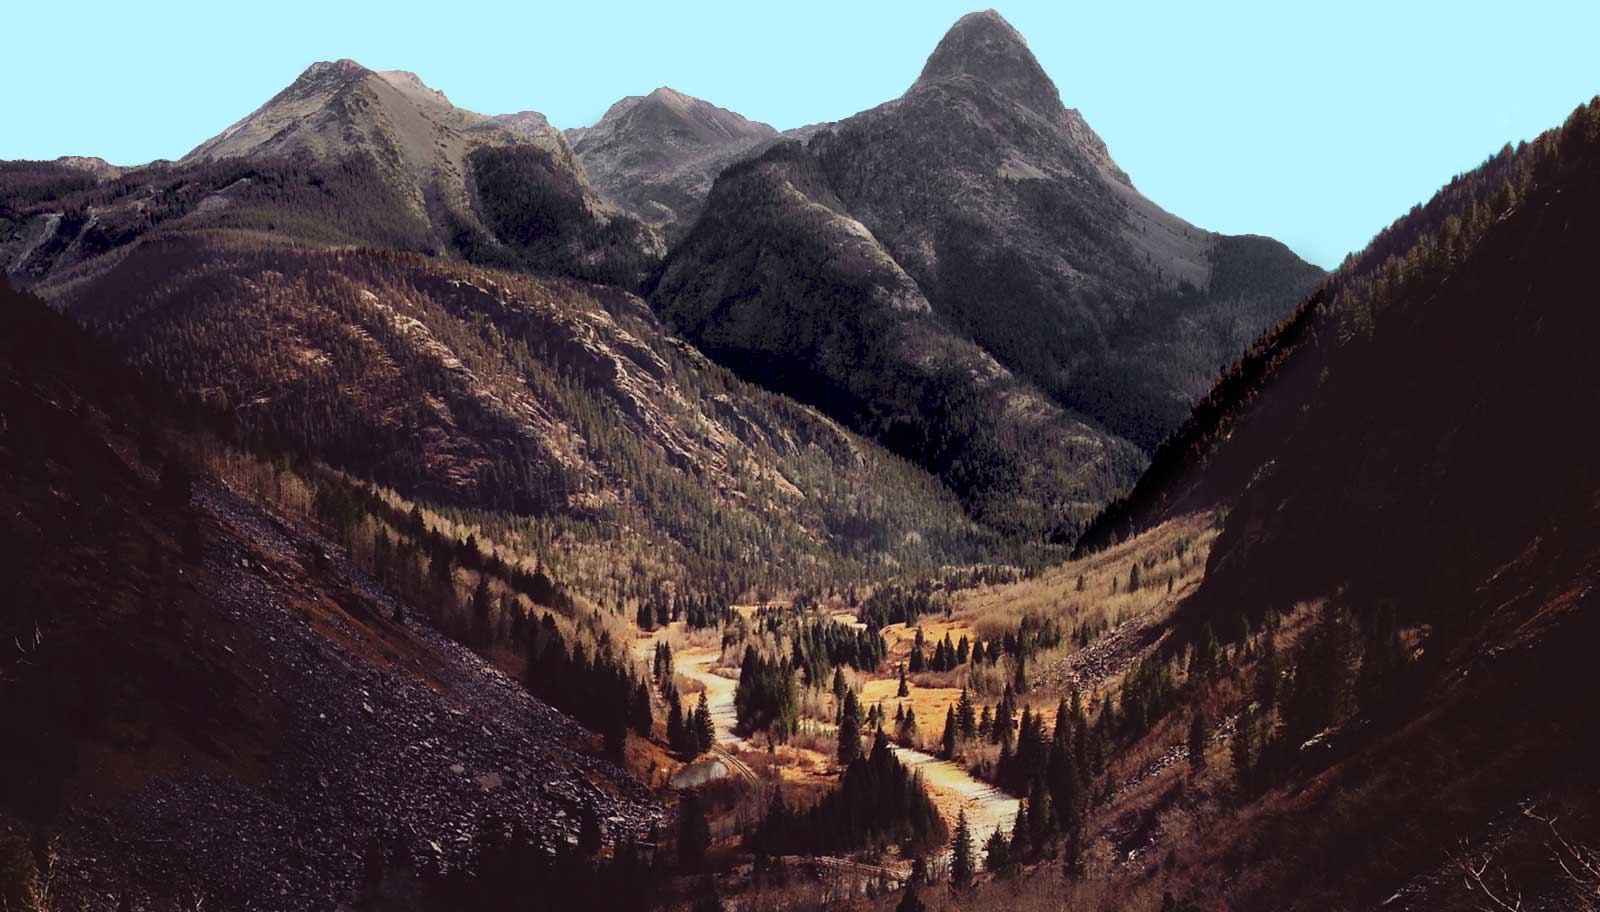
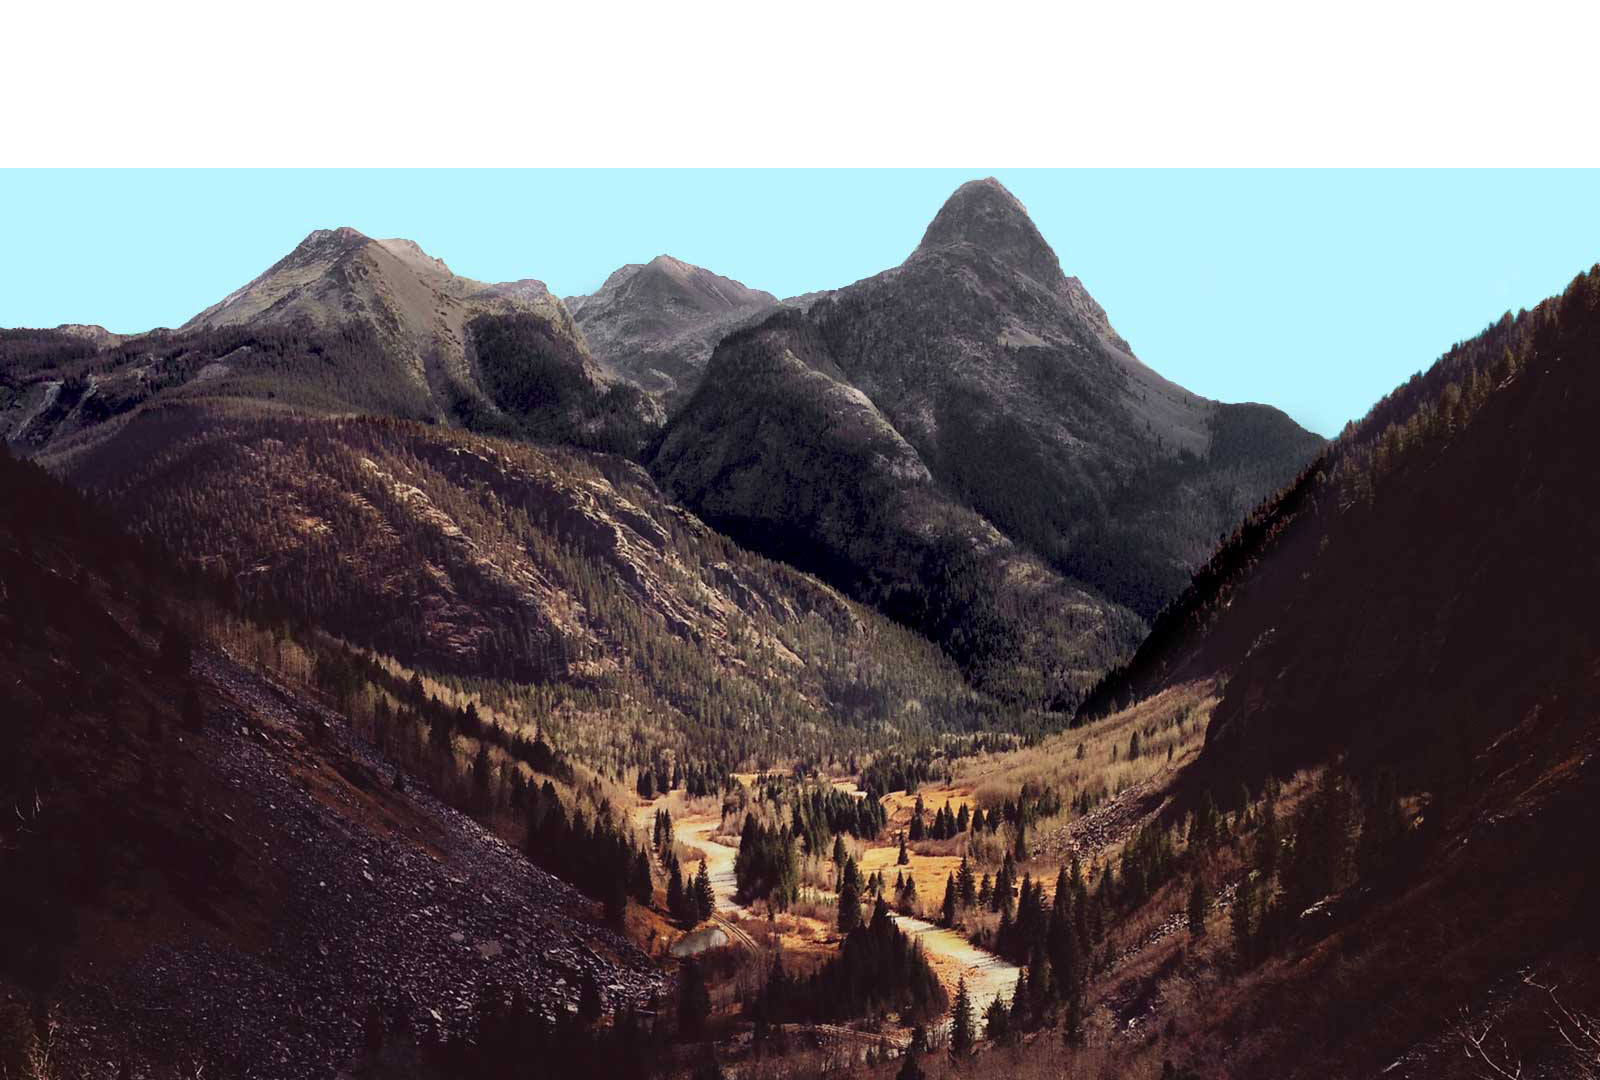
style5update

diff --git a/davis/stylefive_davis.html b/davis/stylefive_davis.html
@@ -15,14 +15,22 @@
 
 		<div class="container">
 			<header>
-				<h1>Almost No Memory</h1>
-				<h2>By Lydia Davis, 2009</h2>
+				<div class="title">Almost No Memory</div>
+				<div class="author">Lydia Davis</div>
+				<div class="date">2009</div>
 			</header> 
 
+				<div class="intro">
+						A certain woman had a very sharp consciousness but almost no memory. 
+				</div>
+				
 				<div class="text">
+
 					<p>
 						A certain woman had a very sharp consciousness but almost no memory. She remembered enough to get by from day to day. She remembered enough to work, and she worked hard. She did good work, and was paid for it, and earned enough to get by, but she did not remember her work, so that she could not answer questions about it when people asked, as they did ask, since the work she did was interesting.
-					</p><p>
+					</p>
+
+					<p>
 						She remembered enough to get by, and to do her work, but she did not learn from what she did, or heard, or read. For she did read, she loved to read, and she took good notes on what she read, on the ideas that came to her from what she read, since she did have some good ideas of her own, and even on her ideas about these ideas. Some of her ideas were even very good ideas, since she had a very sharp consciousness. And so she kept good notebooks and added to them year by year, and because many years passed this way, she had a long shelf of these notebooks, in which her hand writing became smaller and smaller. 
 					</p><p>
 						Sometimes, when she was tired of reading a book, or when she was moved by a sudden curiosity she did not altogether understand, she would take an earlier notebook from the shelf and read a little of it, and she would be interested in what she had read. She be would be interested in the notes she had once taken on a book she was reading or on her own ideas. It would seem all new to her, and indeed most of it would be new to her. Sometimes she would only read and think, and sometimes she would make a note in her current notebook of what she was reading in a notebook from an earlier time, or she would make a note of an idea that came to her from what she was reading. Other times she would want to make a note but choose not to, since she did not think it quite right to make a note of what was already a note, though she did not fully understand what was not right about it. She wanted to make a note of a note she was reading, because this was her way of understanding what she read, though she was not assimilating what she read in her mind, or not for long, but only into another notebook. Or she wanted to make a note because to make a note was her way of thinking this thought. 

diff --git a/davis/stylesheets/style5.css b/davis/stylesheets/style5.css
@@ -1,8 +1,41 @@
 body {
-	background-repeat: url("../images/01.jpg");
-	
-	width: 2000px;
-	height: 2000px;
+
+background: url(../images/01.jpg) no-repeat center center fixed; 
+-webkit-background-size: cover;
+-moz-background-size: cover;
+-o-background-size: cover;
+background-size: cover;
+background-position: 0px -53px; 
+}
+
+.text {
+	margin-top: 100px;
+	margin-left: 100px;
+	margin-bottom: 150px;
+	color: black;
+	width: 850px;
+	font-size: 12px;
+	line-height: 24px;
+	position: absolute;
+	z-index: -2
+}
+
+p {
+	background-color: white;
+	padding-top: 5px;
+	padding-left: 10px;
+	padding-right: 10px;
+}
+
+.intro {
+	margin-left: 100px;
+	color: white;
+	margin-top: 250px;
+	font-size: 50px;
+	width: 700px;
+	letter-spacing: .5px;
+	line-height: 60px;
+
 }
 
 hr {
@@ -10,7 +43,7 @@ top: 0;
 width: 100%;
 background-color: white;
 border-color: white;
-height: 45px;
+height: 116px;
 position: fixed;
 top: 0px;
 display: block;
@@ -20,6 +53,37 @@ padding: 0;
 z-index: -1;
 }
 
-h1 {
+.title {
+margin-top: -225px;
+margin-left: 100px;
+position: fixed;
+text-decoration: none;
+font-style: normal;
+font-size: 30px;
+display: inline;
+color: black;
+}
 
+.author {
+margin-top: -215px;
+margin-left: 600px;
+position: relative;
+text-decoration: none;
+font-style: lighter;
+font-size: 15px;
+display: inline;
+color: black;
+position: fixed;
+}
+
+.date {
+margin-top: -215px;
+margin-left: 700px;
+position: relative;
+text-decoration: none;
+font-style: lighter;
+font-size: 15px;
+display: inline;
+color: black;
+position: fixed;
 }
